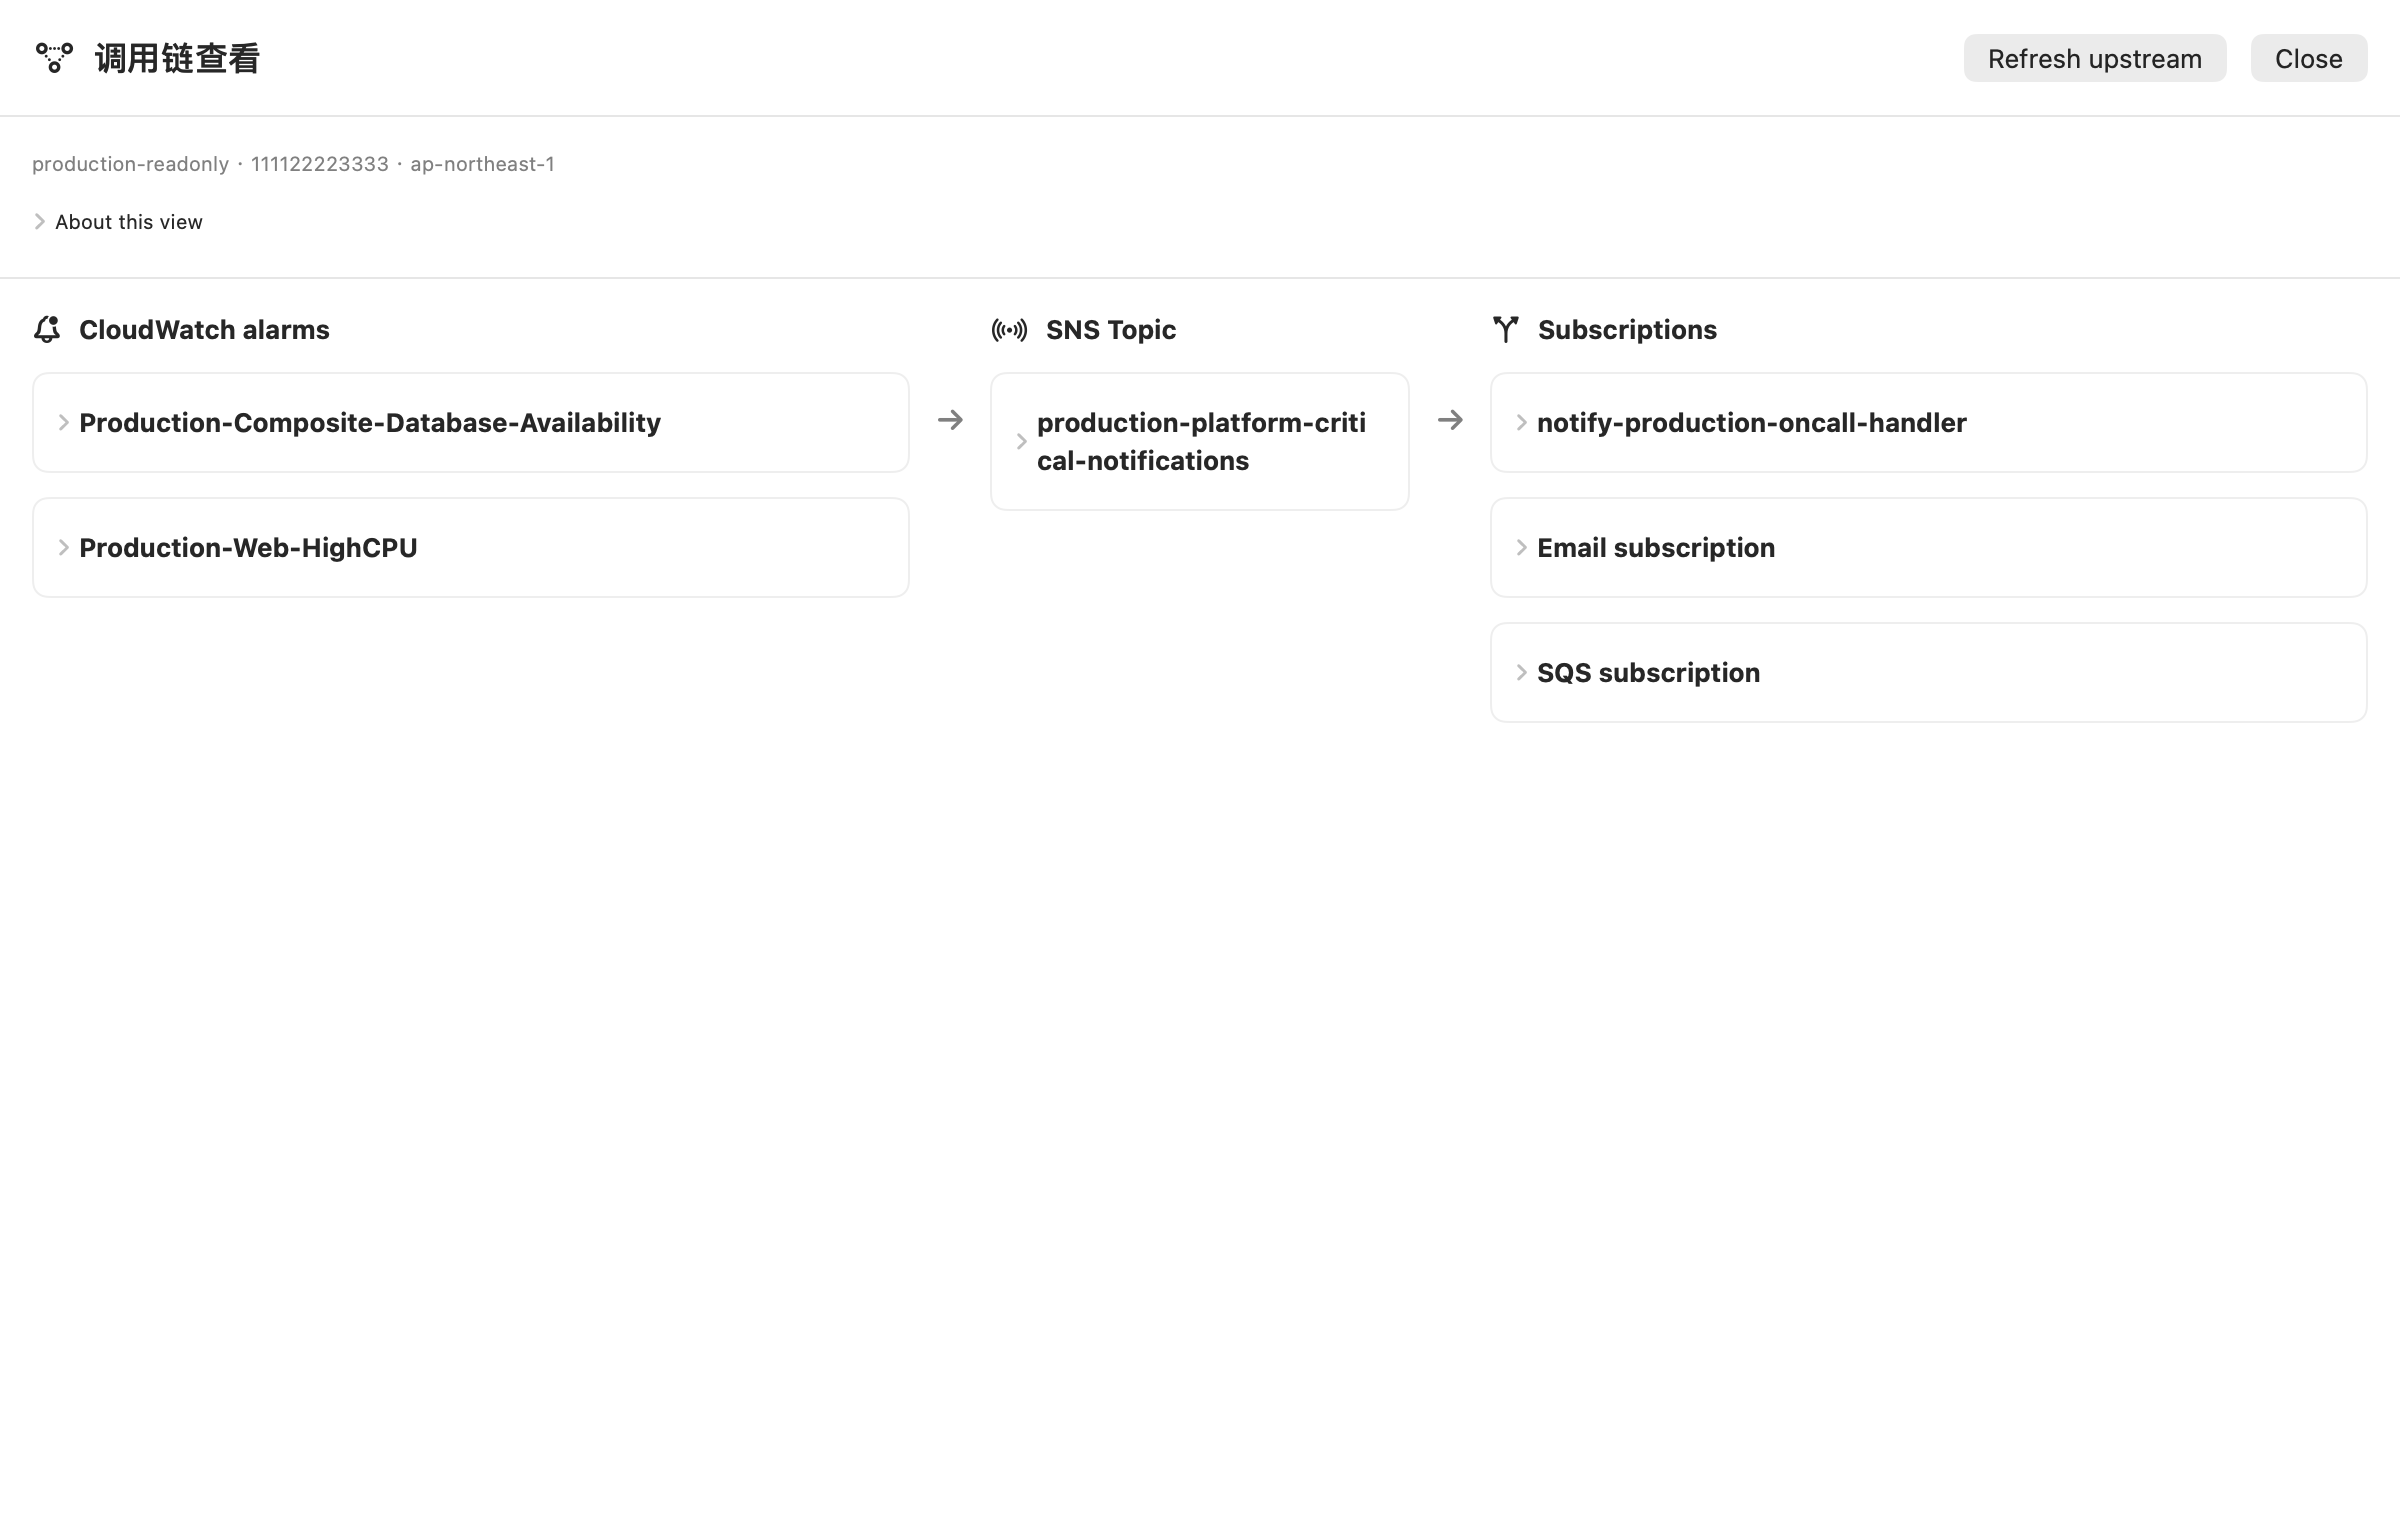
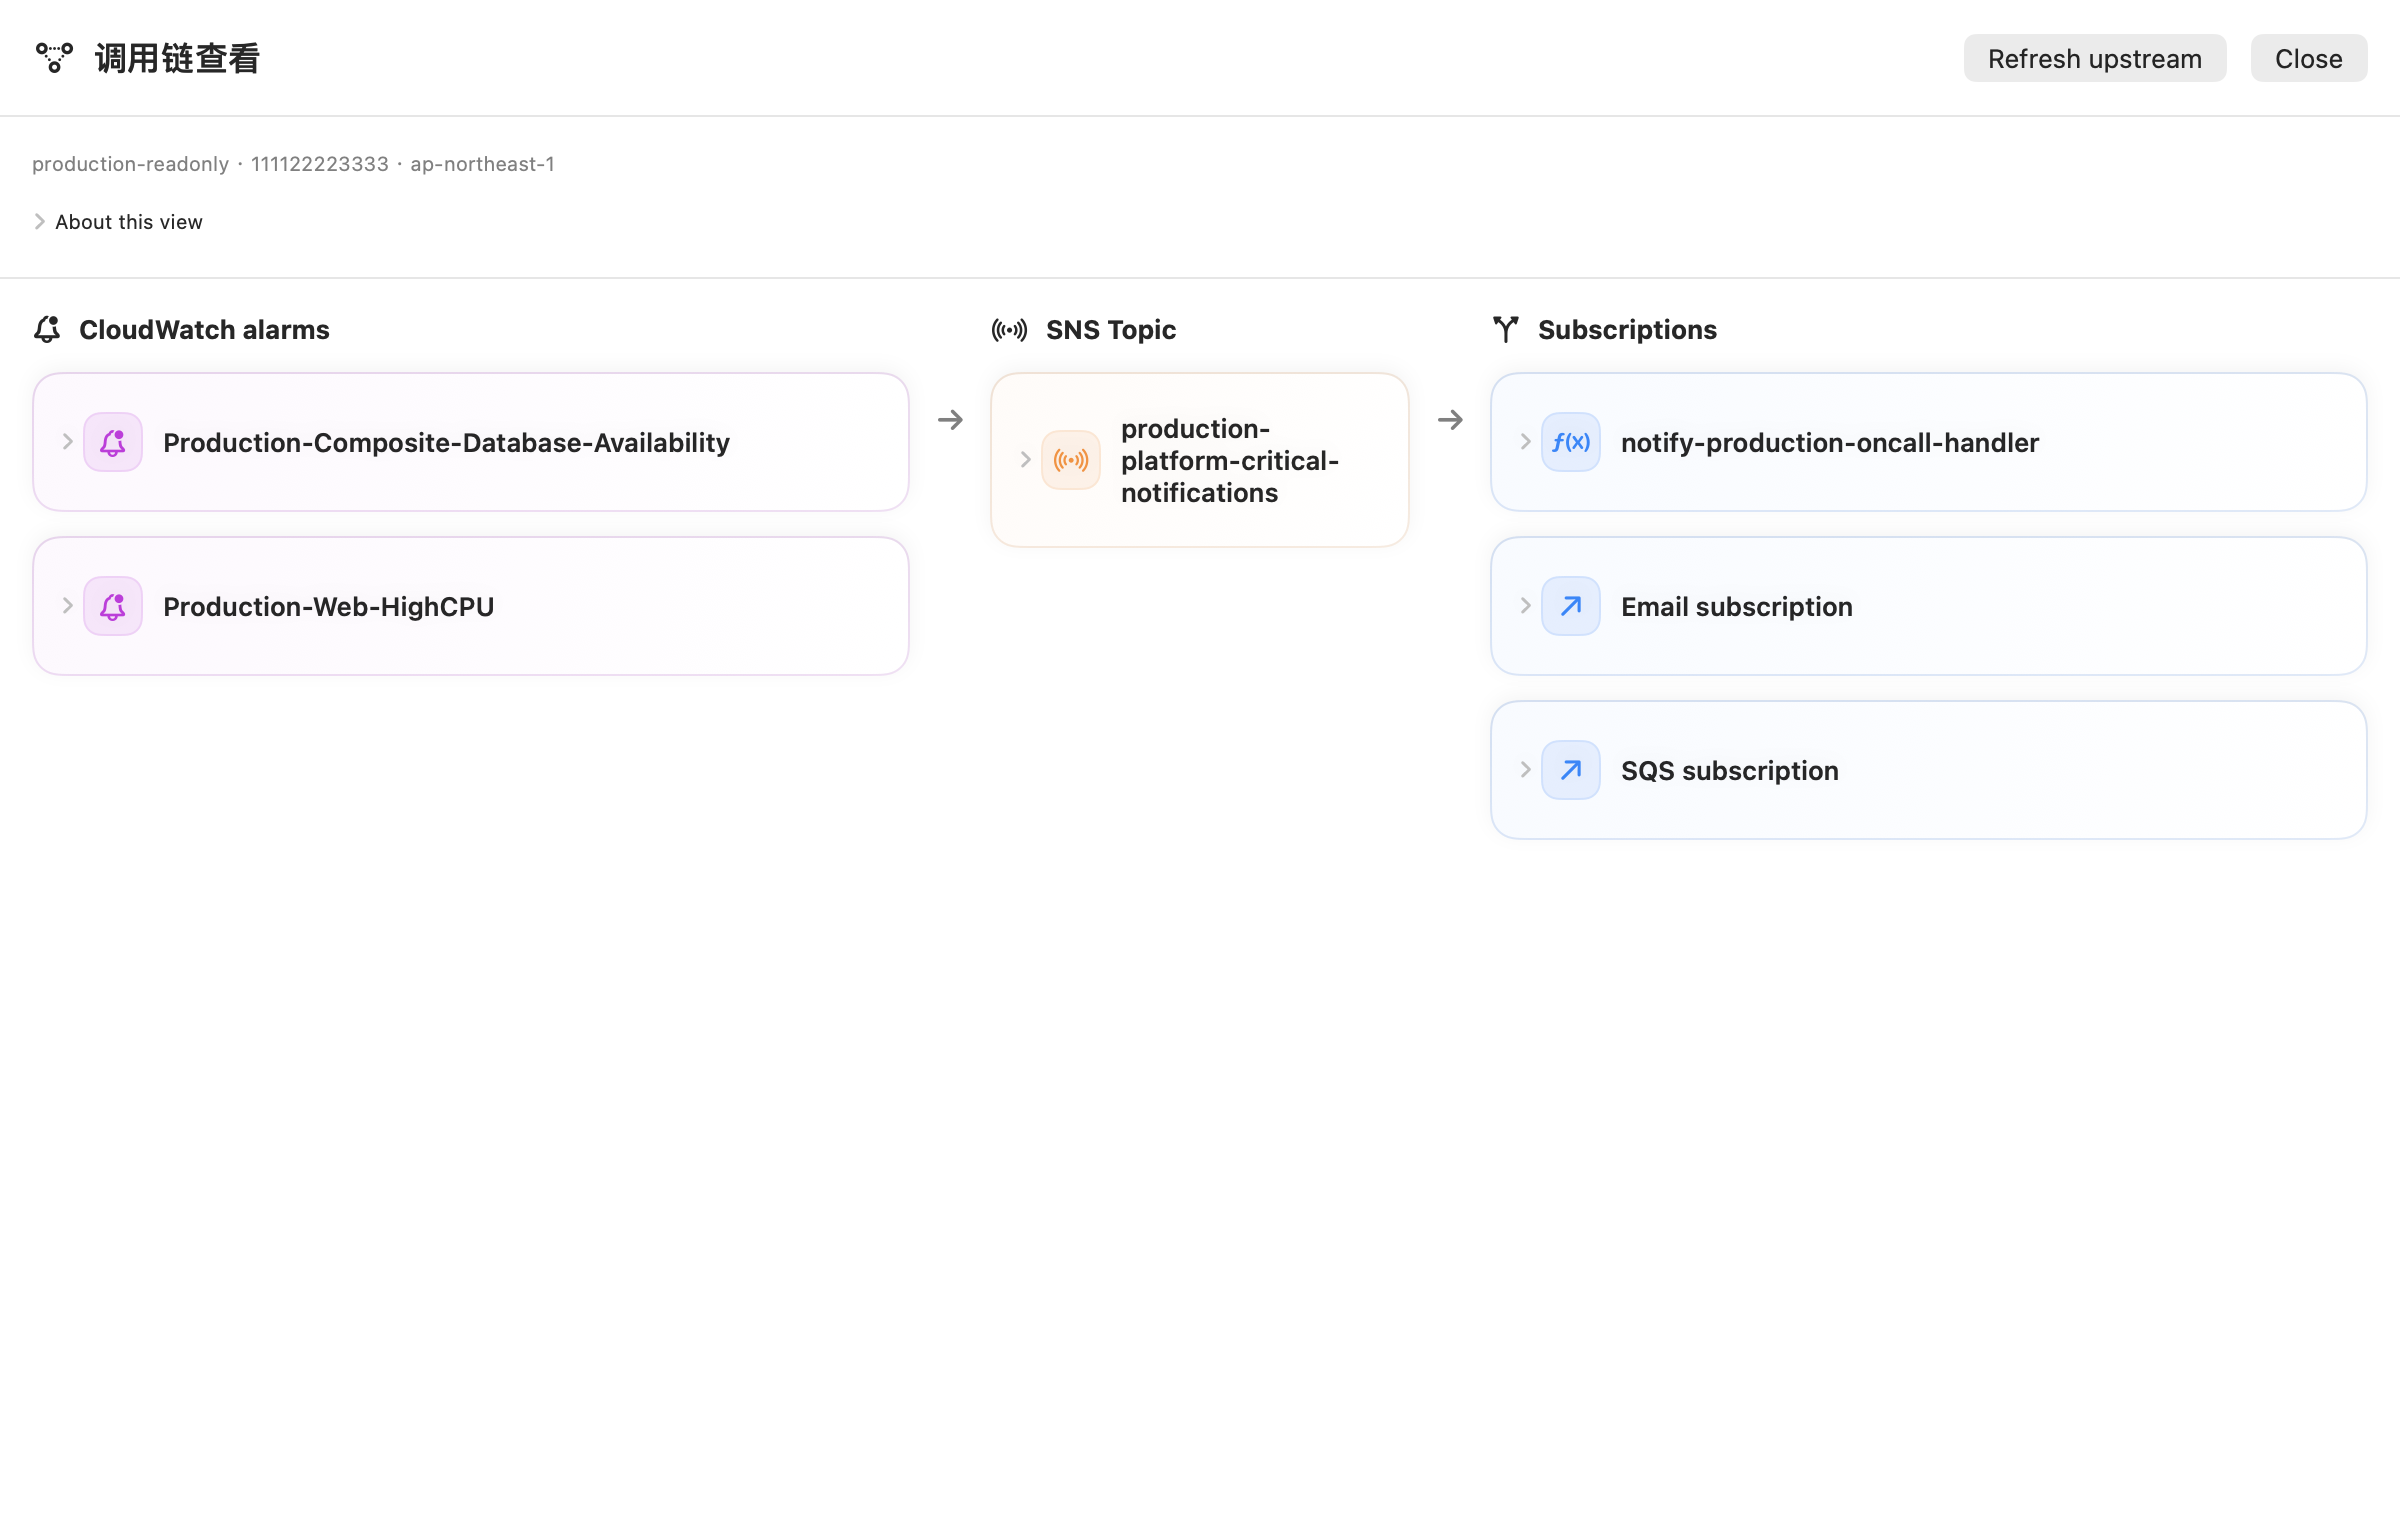
feat: 为 SNS 调用链卡片增加层次与悬停反馈

diff --git a/Sources/AWSPlatform/Views/SNS/SNSRelationshipView.swift b/Sources/AWSPlatform/Views/SNS/SNSRelationshipView.swift
@@ -146,9 +146,10 @@ struct SNSRelationshipView: View {
             }
             .padding(.top, 10)
         } label: {
-            nodeLabel(source.alarm.name, nodeID: "alarm:" + source.alarm.arn)
+            nodeLabel(source.alarm.name, nodeID: "alarm:" + source.alarm.arn,
+                      symbol: "bell.badge", accent: .purple)
         }
-        .relationshipCard()
+        .relationshipCard(accent: .purple, isExpanded: expandedNodeIDs.contains("alarm:" + source.alarm.arn))
     }
 
     private var topicColumn: some View {
@@ -164,9 +165,10 @@ struct SNSRelationshipView: View {
                 }
                 .padding(.top, 10)
             } label: {
-                nodeLabel(topic.name, nodeID: "topic:" + topic.arn)
+                nodeLabel(topic.name, nodeID: "topic:" + topic.arn,
+                          symbol: "dot.radiowaves.left.and.right", accent: .orange)
             }
-            .relationshipCard()
+            .relationshipCard(accent: .orange, isExpanded: expandedNodeIDs.contains("topic:" + topic.arn))
         }
     }
 
@@ -216,9 +218,11 @@ struct SNSRelationshipView: View {
             }
             .padding(.top, 10)
         } label: {
-            nodeLabel(target?.resourceID ?? subscriptionTitle(subscription), nodeID: "subscription:" + subscription.id)
+            nodeLabel(target?.resourceID ?? subscriptionTitle(subscription), nodeID: "subscription:" + subscription.id,
+                      symbol: subscription.protocolName == "lambda" ? "function" : "arrow.up.right",
+                      accent: .blue)
         }
-        .relationshipCard()
+        .relationshipCard(accent: .blue, isExpanded: expandedNodeIDs.contains("subscription:" + subscription.id))
     }
 
     @ViewBuilder
@@ -283,15 +287,26 @@ struct SNSRelationshipView: View {
         )
     }
 
-    private func nodeLabel(_ title: String, nodeID: String) -> some View {
+    private func nodeLabel(_ title: String, nodeID: String, symbol: String, accent: Color) -> some View {
         Button {
             if expandedNodeIDs.contains(nodeID) { expandedNodeIDs.remove(nodeID) }
             else { expandedNodeIDs.insert(nodeID) }
         } label: {
-            Text(title).font(.headline)
-                .fixedSize(horizontal: false, vertical: true)
-                .frame(maxWidth: .infinity, alignment: .leading)
-                .contentShape(Rectangle())
+            HStack(alignment: .center, spacing: 10) {
+                Image(systemName: symbol)
+                    .font(.system(size: 13, weight: .semibold))
+                    .foregroundColor(accent)
+                    .frame(width: 30, height: 30)
+                    .background(accent.opacity(0.10), in: RoundedRectangle(cornerRadius: 9, style: .continuous))
+                    .overlay(RoundedRectangle(cornerRadius: 9, style: .continuous).strokeBorder(accent.opacity(0.12)))
+                    .accessibilityHidden(true)
+                Text(title).font(.system(size: 13, weight: .semibold))
+                    .foregroundColor(.primary)
+                    .fixedSize(horizontal: false, vertical: true)
+                    .frame(maxWidth: .infinity, alignment: .leading)
+            }
+            .padding(.vertical, 2)
+            .contentShape(Rectangle())
         }
         .buttonStyle(.plain)
         .accessibilityValue(expandedNodeIDs.contains(nodeID) ? "Expanded" : "Collapsed")
@@ -311,10 +326,45 @@ struct SNSRelationshipView: View {
 }
 
 private extension View {
-    func relationshipCard() -> some View {
-        frame(maxWidth: .infinity, alignment: .leading)
-            .padding(12)
-            .background(Color(nsColor: .controlBackgroundColor), in: RoundedRectangle(cornerRadius: 8))
-            .overlay(RoundedRectangle(cornerRadius: 8).strokeBorder(.primary.opacity(0.08)))
+    func relationshipCard(accent: Color? = nil, isExpanded: Bool = false) -> some View {
+        modifier(SNSRelationshipCardStyle(accent: accent, isExpanded: isExpanded))
+    }
+}
+
+private struct SNSRelationshipCardStyle: ViewModifier {
+    let accent: Color?
+    let isExpanded: Bool
+    @Environment(\.colorScheme) private var colorScheme
+    @Environment(\.colorSchemeContrast) private var contrast
+    @Environment(\.accessibilityReduceMotion) private var reduceMotion
+    @State private var isHovered = false
+
+    private var highlighted: Bool { accent != nil && (isHovered || isExpanded) }
+    private var tint: Color { accent ?? .clear }
+
+    func body(content: Content) -> some View {
+        let shape = RoundedRectangle(cornerRadius: 14, style: .continuous)
+        let isDark = colorScheme == .dark
+        content
+            .frame(maxWidth: .infinity, alignment: .leading)
+            .padding(14)
+            .background {
+                shape.fill(Color(nsColor: .controlBackgroundColor))
+                shape.fill(LinearGradient(
+                    colors: [tint.opacity(highlighted ? 0.09 : 0.035), .clear],
+                    startPoint: .topLeading, endPoint: .bottomTrailing
+                ))
+            }
+            .overlay {
+                shape.strokeBorder(LinearGradient(
+                    colors: [Color.primary.opacity(isDark ? 0.16 : 0.07), Color.primary.opacity(0.035)],
+                    startPoint: .top, endPoint: .bottom
+                ))
+                shape.strokeBorder(contrast == .increased ? Color.primary.opacity(0.48) : tint.opacity(highlighted ? 0.36 : 0.12))
+            }
+            .shadow(color: .black.opacity(isDark ? 0.18 : (highlighted ? 0.09 : 0.045)),
+                    radius: highlighted ? 9 : 5, x: 0, y: highlighted ? 4 : 2)
+            .animation(reduceMotion ? nil : .easeOut(duration: 0.16), value: highlighted)
+            .onHover { isHovered = $0 }
     }
 }

diff --git a/ROADMAP.md b/ROADMAP.md
@@ -6,6 +6,7 @@
 
 ## 最近完成
 
+- 2026-10-03 13:19：提升 SNS 调用链卡片层次：服务色图标、轻渐变底色、连续圆角、细边框和柔和阴影；悬停／展开时加强边框与层次。保留名称首屏、点击展开和 Open 流程，身份／区域校验及原始 Endpoint 遮罩不变；增加增强对比度边框和减少动态效果分支，更新默认收起的文档示例。
 - 2026-10-03 13:09：简化 SNS 调用链首屏：告警、Topic 和订阅节点默认仅显示名称，整行可展开／收起，详情与 Open 按钮仅在展开后显示。合法 Lambda 节点显示函数名，展开即可跳转，不再要求先 Reveal；原始 Endpoint 仍默认遮罩，覆盖范围说明收入 About this view。展开状态随弹窗关闭或上下文变化重置；README 和默认收起的示例截图已更新。
 - 2026-10-03 12:54：SNS Topic 详情新增「调用链查看」弹窗，显示当前 Profile／Region 的 CloudWatch Metric／Composite 告警三类动作 → Topic → 已加载订阅；保留禁用／抑制和订阅确认状态，区分检查失败与无匹配。支持同范围告警、已确认 Lambda 订阅跳转详情，保留 qualifier 并注明函数级详情；Endpoint 默认遮罩，跨账号／Region 和未支持服务不跳转。独立导航不写收藏、不重配全服务，修复关联目标缺失时 Lambda 自动选首项及立即取消仍启动查询的问题。范围明确为配置关系，不是实际消息轨迹；README 和弹窗组件示例已同步。
 - 2026-10-03 12:24：新增按当前 Profile／Region 隔离的 SNS 只读模块，提供 Standard／FIFO Topic 搜索与筛选、属性／标签／订阅三组独立读取、配置及策略展示、手动刷新与取消。Topic 和订阅完整分页，保留待确认／已删除／未知状态及合法跨账号订阅 Owner；Endpoint 默认隐藏，显示后才可复制，切换 Topic／身份或刷新时重置。接入 ARN 收藏，未增加消息发布、订阅变更或自动跨账号导航。README 和六张模拟组件示例已同步。
@@ -21,6 +22,7 @@
 
 ## 最近验证
 
+- 2026-10-03 13:19：严格构建及 `swift test -Xswiftc -strict-concurrency=complete -Xswiftc -warnings-as-errors` 通过，258 项正式测试零失败、无编译警告；1 项离线原生渲染测试通过，生成 36 张截图，已核对 960／1200 宽度的深浅色名称、图标、边框、展开详情及隐私显示状态。增强对比 NSAppearance 截图仅作为外观参考，不等同于 SwiftUI 增强对比分支动态验收；减少动态效果和悬停分支仅做代码核验。临时截图工具的只读环境属性注入错误已修正，最终日志无编译诊断；临时入口移除，`git diff --check` 通过。未访问真实 AWS，真实窗口鼠标／键盘操作和 macOS 13 仍待验收。
 - 2026-10-03 13:09：`swift test -Xswiftc -strict-concurrency=complete -Xswiftc -warnings-as-errors` 通过，258 项正式测试零失败、无编译警告；1 项临时离线原生渲染测试通过，8 种状态在 960／1200 宽度及深浅色生成 32 张截图，已核对默认收起、展开、原始 Endpoint 隐藏／显示及错误布局。临时测试入口已移除，`git diff --check` 通过。改动仅为展示与展开状态；未访问真实 AWS，完整窗口点击、键盘操作和 macOS 13 实机仍待验收。
 - 2026-10-03 12:54：`swift test -Xswiftc -strict-concurrency=complete -Xswiftc -warnings-as-errors` 严格构建无编译警告，258 项正式单测全部通过；新增 43 项覆盖关系精确匹配、范围与 ARN 校验、qualifier／特殊订阅状态、安全错误、迟到结果、按需导航和 Lambda 空选择回归。另 1 项临时原生离线渲染测试通过，7 种状态在 960／1200 宽度及深浅色生成 28 张截图，抽查长名称／ARN、默认遮罩／显示、空态和独立错误。独立审查核对关键代码、日志和截图；临时测试入口已移除，`git diff --check` 通过。未调用真实 AWS，也未进行完整窗口点击或 macOS 13 实机验收。
 - 2026-10-03 12:24：`swift test -Xswiftc -strict-concurrency=complete -Xswiftc -warnings-as-errors` 严格构建无编译警告，215 项正式单测全部通过；新增 37 项覆盖 SNS 服务分页／范围／特殊订阅状态、三组详情独立失败、过期结果隔离、Endpoint 显示状态和收藏兼容／导航。另有 4 项临时离线渲染测试通过，SNS 的 13 种整页状态在 960／1280 与深浅色下生成 52 张截图，加 4 张 Endpoint 显示／展开策略组件图；已抽查三个页签、长 ARN、空态和局部错误，独立审查核对核心代码、日志和关键截图。临时入口已移除，文档结构与 `git diff --check` 通过。未调用真实 AWS，真实 IAM／分页、窗口交互和 macOS 13 仍待验收；原有 Cost Charts 运行时警告继续保留在工程待办。
